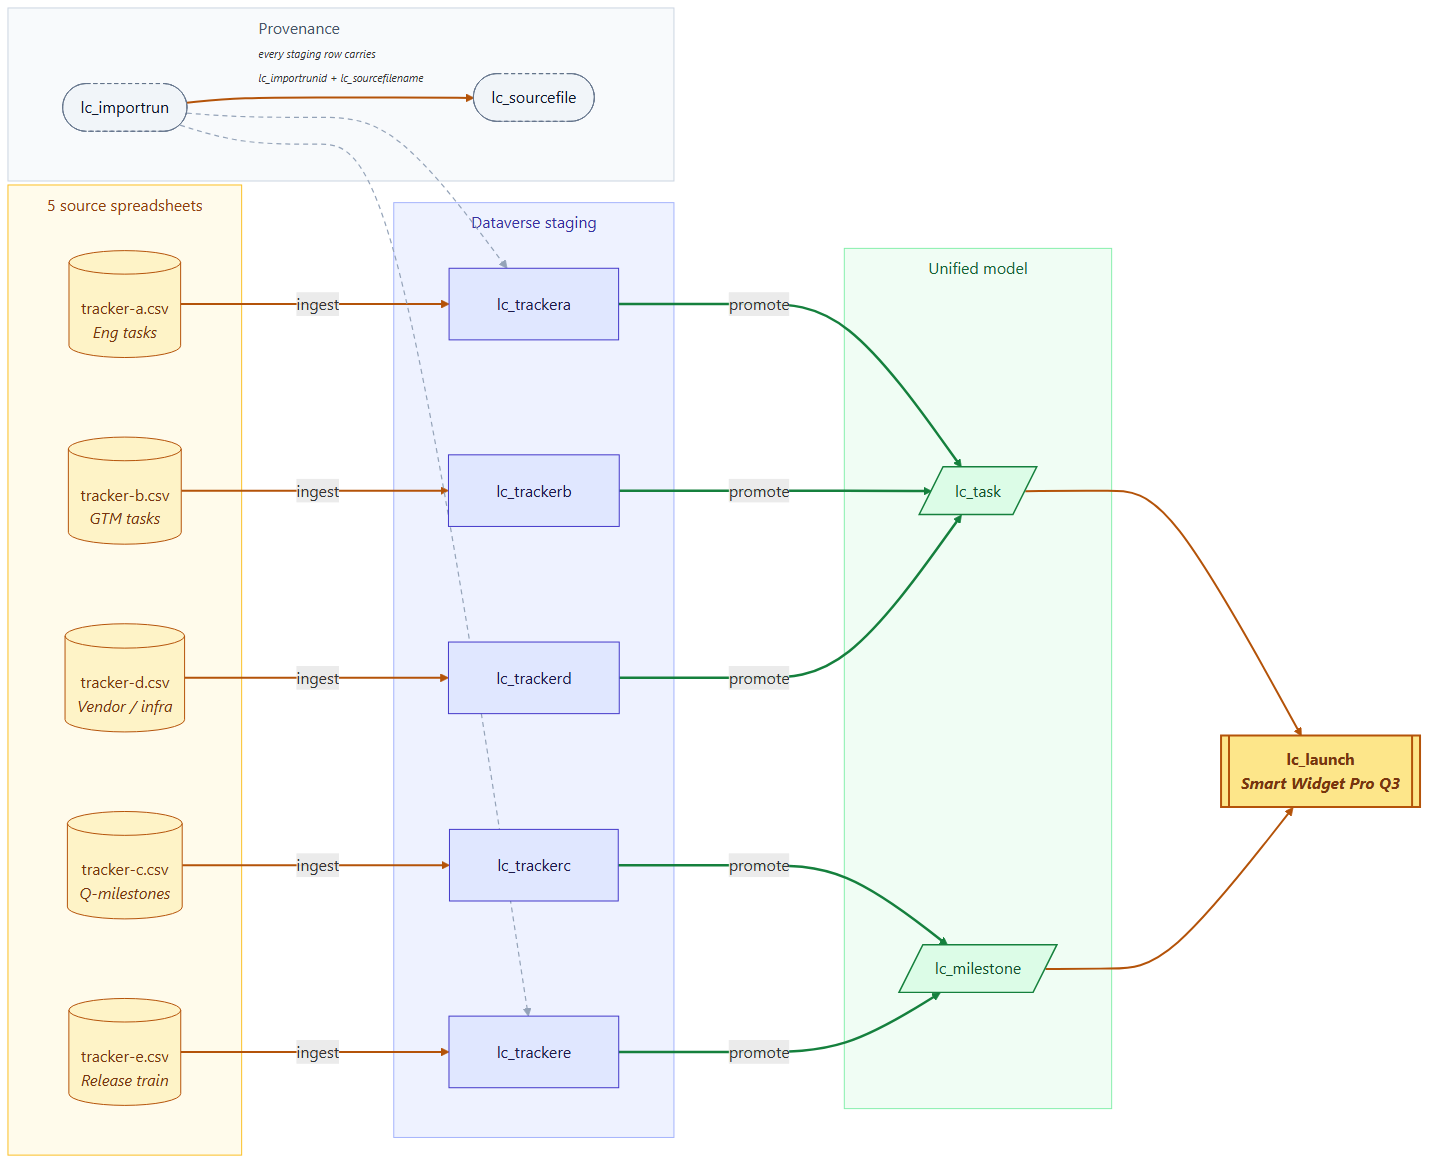
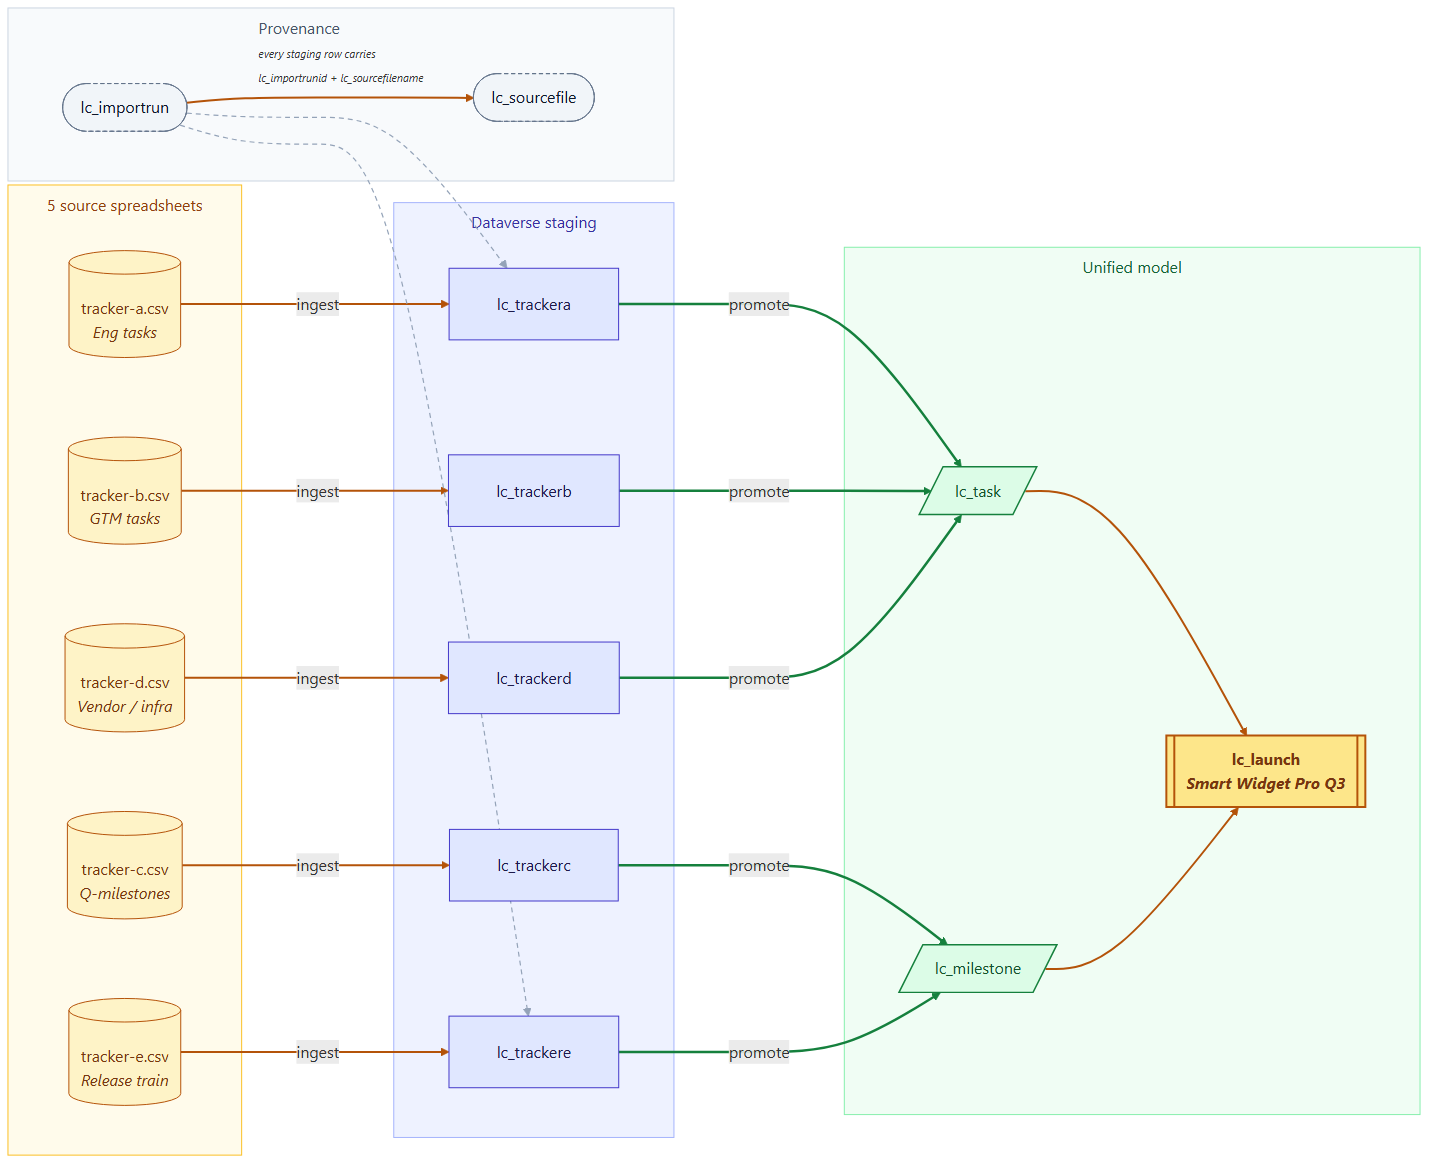
[Ep 01] Move lc_launch inside the Unified model subgraph
lc_launch was floating outside the Unified subgraph, which read as if it
were a separate concept. It's part of the unified model — moved inside
the green box alongside lc_task and lc_milestone.

diff --git a/scripts/python/flow_diagram.py b/scripts/python/flow_diagram.py
@@ -54,9 +54,8 @@ MERMAID = """flowchart LR
         direction TB
         task[/lc_task/]
         ms[/lc_milestone/]
+        launch[["lc_launch<br/><i>Smart Widget Pro Q3</i>"]]
     end
-
-    launch[["lc_launch<br/><i>Smart Widget Pro Q3</i>"]]
 
     %% ---------- Provenance (compact box; one anchor edge, others are conceptual) ----------
     subgraph PROV["Provenance<br/><span style='font-size:11px;font-style:italic'>every staging row carries<br/>lc_importrunid + lc_sourcefilename</span>"]